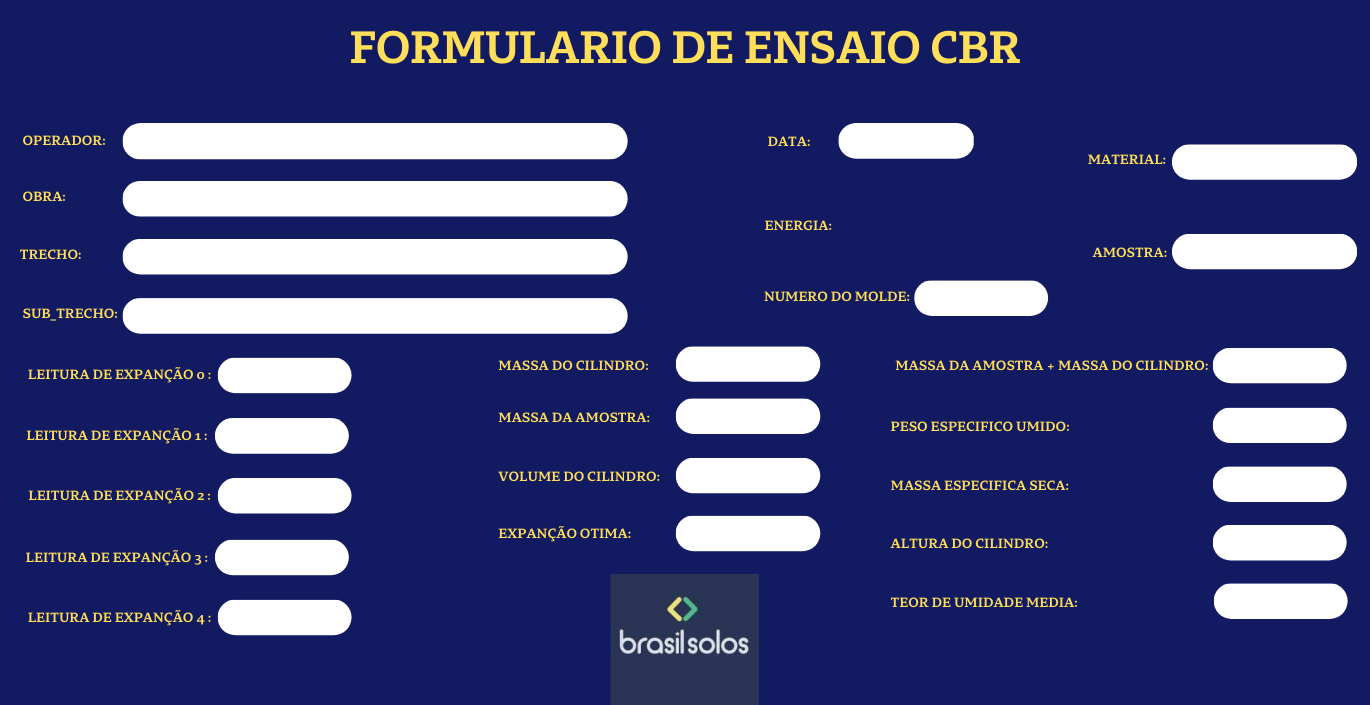
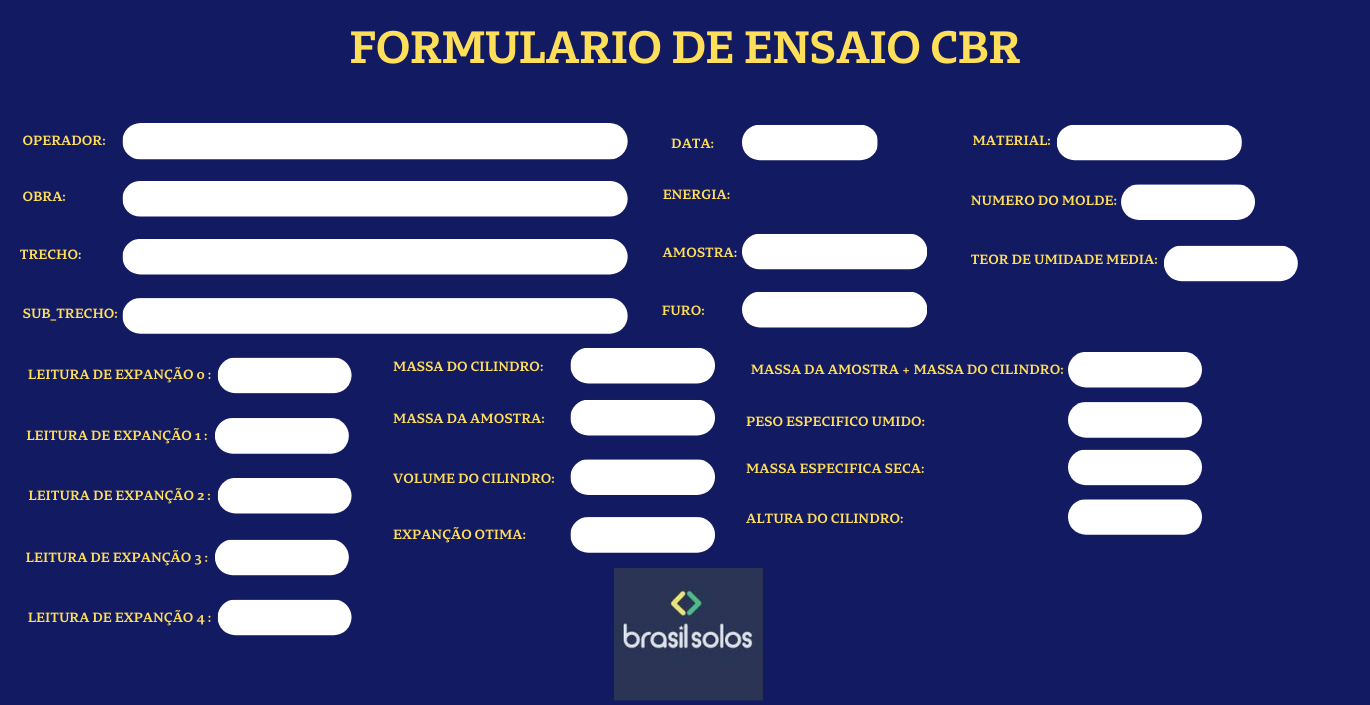
versão 1.0
pagina p2 concluida

diff --git a/Funcionalidades/P3_FormularioCbr.py b/Funcionalidades/P3_FormularioCbr.py
@@ -10,11 +10,11 @@ import pymysql
                                                   FUNÇÕES
 ====================================================================================================================="""
 def Salvar():
-
+    try:
         #conecção com o bd e reset do banco
         conexao = pymysql.connect(host='localhost', user='root', passwd='', database='db_prensa_software')
         cursor = conexao.cursor()
-        cursor.execute("TRUNCATE TABLE id_amostra_cbr;"); cursor.execute("TRUNCATE TABLE id_cp_cbr;")
+        cursor.execute("TRUNCATE TABLE id_ensaio_cbr;"); cursor.execute("TRUNCATE TABLE id_cp_cbr;")
         #variaveis temporarias para guardar os valores digitados pelo usuario
         x1 = str(operador.get()); x2 = str(obra.get()); x3 = str(trecho.get()); x4 = str(subtrecho.get())
         x5 = str(data.get()); x6 = str(material.get()); x7 = str(n_molde.get()); x8 = float(exp_0.get())
@@ -22,25 +22,25 @@ def Salvar():
         x13 = float(m_cilindro.get()); x14 = float(m_amostra.get()); x15 = float(volume.get())
         x16 = float(expansao.get()); x17 = float(m_amostra_m_cilindro.get()); x18 = float(peso_exp_umido.get())
         x19 = float(m_esp_seca.get()); x20 = float(altura.get()); x21 = float(amostra.get()); x22 = int(ener.get());
-        x23 = float(teor_umidade_media.get())
-        sql = 'INSERT INTO id_amostra_cbr (amostra, dia, energia, material, obra, operador, subtrecho, trecho) ' \
-              'VALUES (%s,%s,%s,%s,%s,%s,%s,%s)'  # CHAMADA PARA SALVAR OS NOVOS VALORES DO RELATORIO NO BD
-        sql_data = [x21, x5, x22, x6, x2, x1, x4, x3]
+        x23 = float(teor_umidade_media.get()); x24 = str(furo.get())
+        sql = 'INSERT INTO id_ensaio_cbr (amostra, dia, energia, material, obra, operador, subtrecho, trecho,furo) ' \
+              'VALUES (%s,%s,%s,%s,%s,%s,%s,%s,%s)'  # CHAMADA PARA SALVAR OS NOVOS VALORES DO RELATORIO NO BD
+        sql_data = [x21, x5, x22, x6, x2, x1, x4, x3, x24]
         cursor.execute(sql, sql_data)
         conexao.commit()
-
-        #DAQUI PRA CIMA TA MEC
-        sql = 'INSERT INTO id_amostra_cbr (altura_inicial, exp_umidade_otima, id_molde, leitura_exp0, leitura_exp1,' \
+        sql = 'INSERT INTO id_cp_cbr (altura_inicial, exp_umidade_otima, id_molde, leitura_exp0, leitura_exp1,' \
               'leitura_exp2, leitura_exp3, leitura_exp4, massa_amosta, massa_amostra_cilindro, massa_cilindro, ' \
               'massa_esp_ap_seca, peso_esp_umido, teor_umidade_media, volume) ' \
               'VALUES (%s,%s,%s,%s,%s,%s,%s,%s,%s,%s,%s,%s,%s,%s,%s)'
         sql_data = [x20, x16, x7, x8, x9, x10, x11, x12, x14, x17, x13, x19, x18, x23, x15]
         cursor.execute(sql, sql_data)
-        conexao.commit()
-        cursor.close()
+        conexao.commit()   
+        cursor.close()   
         tela3.destroy()
-        #run(r"Funcionalidades\P4_TelaDeEnsaioMarshall.exe", shell=True)       #esta indo pra tela marshall a titulo de teste
-
+        run(r"Funcionalidades\P5_TelaDeEnsaioCbr.exe", shell=True)
+    except:
+        messagebox.showwarning("ERRO!!!!!",                                    
+                               "Verifique se os dados foram preenchidos corretamente")
 
 def Voltar():
     tela3.destroy()
@@ -64,24 +64,25 @@ operador = Entry(tela3, width=20); operador.place(width=477, height=29, x=137, y
 obra = Entry(tela3, width=20); obra.place(width=478, height=27, x=138, y=186)
 trecho = Entry(tela3, width=20); trecho.place(width=471, height=28, x=140, y=245)
 subtrecho = Entry(tela3, width=20); subtrecho.place(width=470, height=30, x=138, y=302)
-data = Entry(tela3, width=20); data.place(width=113, height=26, x=852, y=128)
-material = Entry(tela3, width=20); material.place(width=160, height=25, x=1185, y=152)
-amostra = Entry(tela3, width=20) ; amostra.place(width=157, height=29, x=1189, y=237)
-n_molde = Entry(tela3, width=20); n_molde.place(width=110, height=26, x=928, y=290)
+data = Entry(tela3, width=20); data.place(width=112, height=26, x=754, y=132)
+amostra = Entry(tela3, width=20) ; amostra.place(width=161, height=27, x=755, y=242)
+furo = Entry(tela3, width=20); furo.place(width=156, height=25, x=756, y=299)
+material = Entry(tela3, width=20); material.place(width=156, height=30, x=1068, y=130)
+n_molde = Entry(tela3, width=20); n_molde.place(width=110, height=24, x=1134, y=192)
+teor_umidade_media = Entry(tela3, width=20); teor_umidade_media.place(width=105, height=26, x=1178, y=254)
 exp_0 = Entry(tela3, width=20); exp_0.place(width=110, height=22, x=232, y=367)
 exp_1 = Entry(tela3, width=20); exp_1.place(width=110, height=27, x=228, y=425)
 exp_2 = Entry(tela3, width=20); exp_2.place(width=112, height=26, x=227, y=486)
 exp_3 = Entry(tela3, width=20); exp_3.place(width=110, height=26, x=225, y=547)
 exp_4 = Entry(tela3, width=20); exp_4.place(width=114, height=24, x=228, y=608)
-m_cilindro = Entry(tela3, width=20); m_cilindro.place(width=125, height=27, x=687, y=353)
-m_amostra = Entry(tela3, width=20); m_amostra.place(width=122, height=27, x=688, y=404)
-volume = Entry(tela3, width=20); volume.place(width=123, height=28, x=686, y=464)
-expansao = Entry(tela3, width=20); expansao.place(width=122, height=27, x=686, y=522)
-m_amostra_m_cilindro = Entry(tela3, width=20); m_amostra_m_cilindro.place(width=110, height=28, x=1225, y=354)
-peso_exp_umido = Entry(tela3, width=20); peso_exp_umido.place(width=108, height=27, x=1227, y=412)
-m_esp_seca = Entry(tela3, width=20); m_esp_seca.place(width=108, height=30, x=1225, y=471)
-altura = Entry(tela3, width=20); altura.place(width=113, height=27, x=1222, y=533)
-teor_umidade_media = Entry(tela3, width=20); teor_umidade_media.place(width=111, height=29, x=1224, y=590)
+m_cilindro = Entry(tela3, width=20); m_cilindro.place(width=119, height=26, x=580, y=357)
+m_amostra = Entry(tela3, width=20); m_amostra.place(width=118, height=26, x=580, y=407)
+volume = Entry(tela3, width=20); volume.place(width=119, height=23, x=581, y=468)
+expansao = Entry(tela3, width=20); expansao.place(width=116, height=30, x=584, y=524)
+m_amostra_m_cilindro = Entry(tela3, width=20); m_amostra_m_cilindro.place(width=109, height=25, x=1077, y=359)
+peso_exp_umido = Entry(tela3, width=20); peso_exp_umido.place(width=109, height=26, x=1080, y=410)
+m_esp_seca = Entry(tela3, width=20); m_esp_seca.place(width=112, height=24, x=1081, y=458)
+altura = Entry(tela3, width=20); altura.place(width=107, height=25, x=1081, y=506)
 
 #definindo botôes
 B_Salvar = Button(tela3,text="SALVAR",bg="green", command=Salvar, font=("Arial",20))
@@ -93,13 +94,13 @@ ener = IntVar()
 ener_12 = Radiobutton(tela3, text="12", value=12, variable=ener); ener_12.pack()
 ener_35 = Radiobutton(tela3, text="35", value=35, variable=ener); ener_35.pack()
 ener_56 = Radiobutton(tela3, text="56", value=56, variable=ener); ener_56.pack()
-ener_12.place(width=56, height=52, x=845, y=200); ener_35.place(width=56, height=52, x=897, y=200);
-ener_56.place(width=56, height=52, x=949, y=200);
-"""
+ener_12.place(width=54, height=52, x=746, y=174); ener_35.place(width=56, height=52, x=798, y=174);
+ener_56.place(width=56, height=52, x=850, y=174);
+
 tela3.bind('<Button-1>', lambda e: Posicionador_De_Objetos.m_btn1(e, tela3))
 tela3.bind('<Button-3>', lambda e: Posicionador_De_Objetos.m_btn3(e, tela3))
 tela3.bind('<ButtonRelease-1>', lambda e: Posicionador_De_Objetos.m_btn1_release(e, tela3))
-"""
+
 tela3.mainloop()
 """=====================================================================================================================            
                                                FIM DO PROGRAMA

diff --git a/Aplicativo.py b/Aplicativo.py
@@ -24,7 +24,7 @@ except:
                    "deslocamento_t float not null,"
                    "forca_t float not null);")
     #TABELAS DO BD PARA O ENSAIO CBR, EM ANDAMENTO MAS JA VAO SER FEITAS DA MANEIRA CORRETA:
-    cursor.execute("create TABLE id_amostra_cbr (" 
+    cursor.execute("create TABLE id_ensaio_cbr (" 
         "registro int not null primary key auto_increment,"
         "dia varchar(255),"
         "obra varchar(255),"
@@ -33,6 +33,7 @@ except:
         "trecho varchar(255),"
         "subtrecho varchar(255),"
         "energia int,"
+        "furo varchar(255),"
         "amostra varchar(255));")
     cursor.execute("CREATE table id_cp_cbr ("
         "id_molde varchar(5) not null,"
